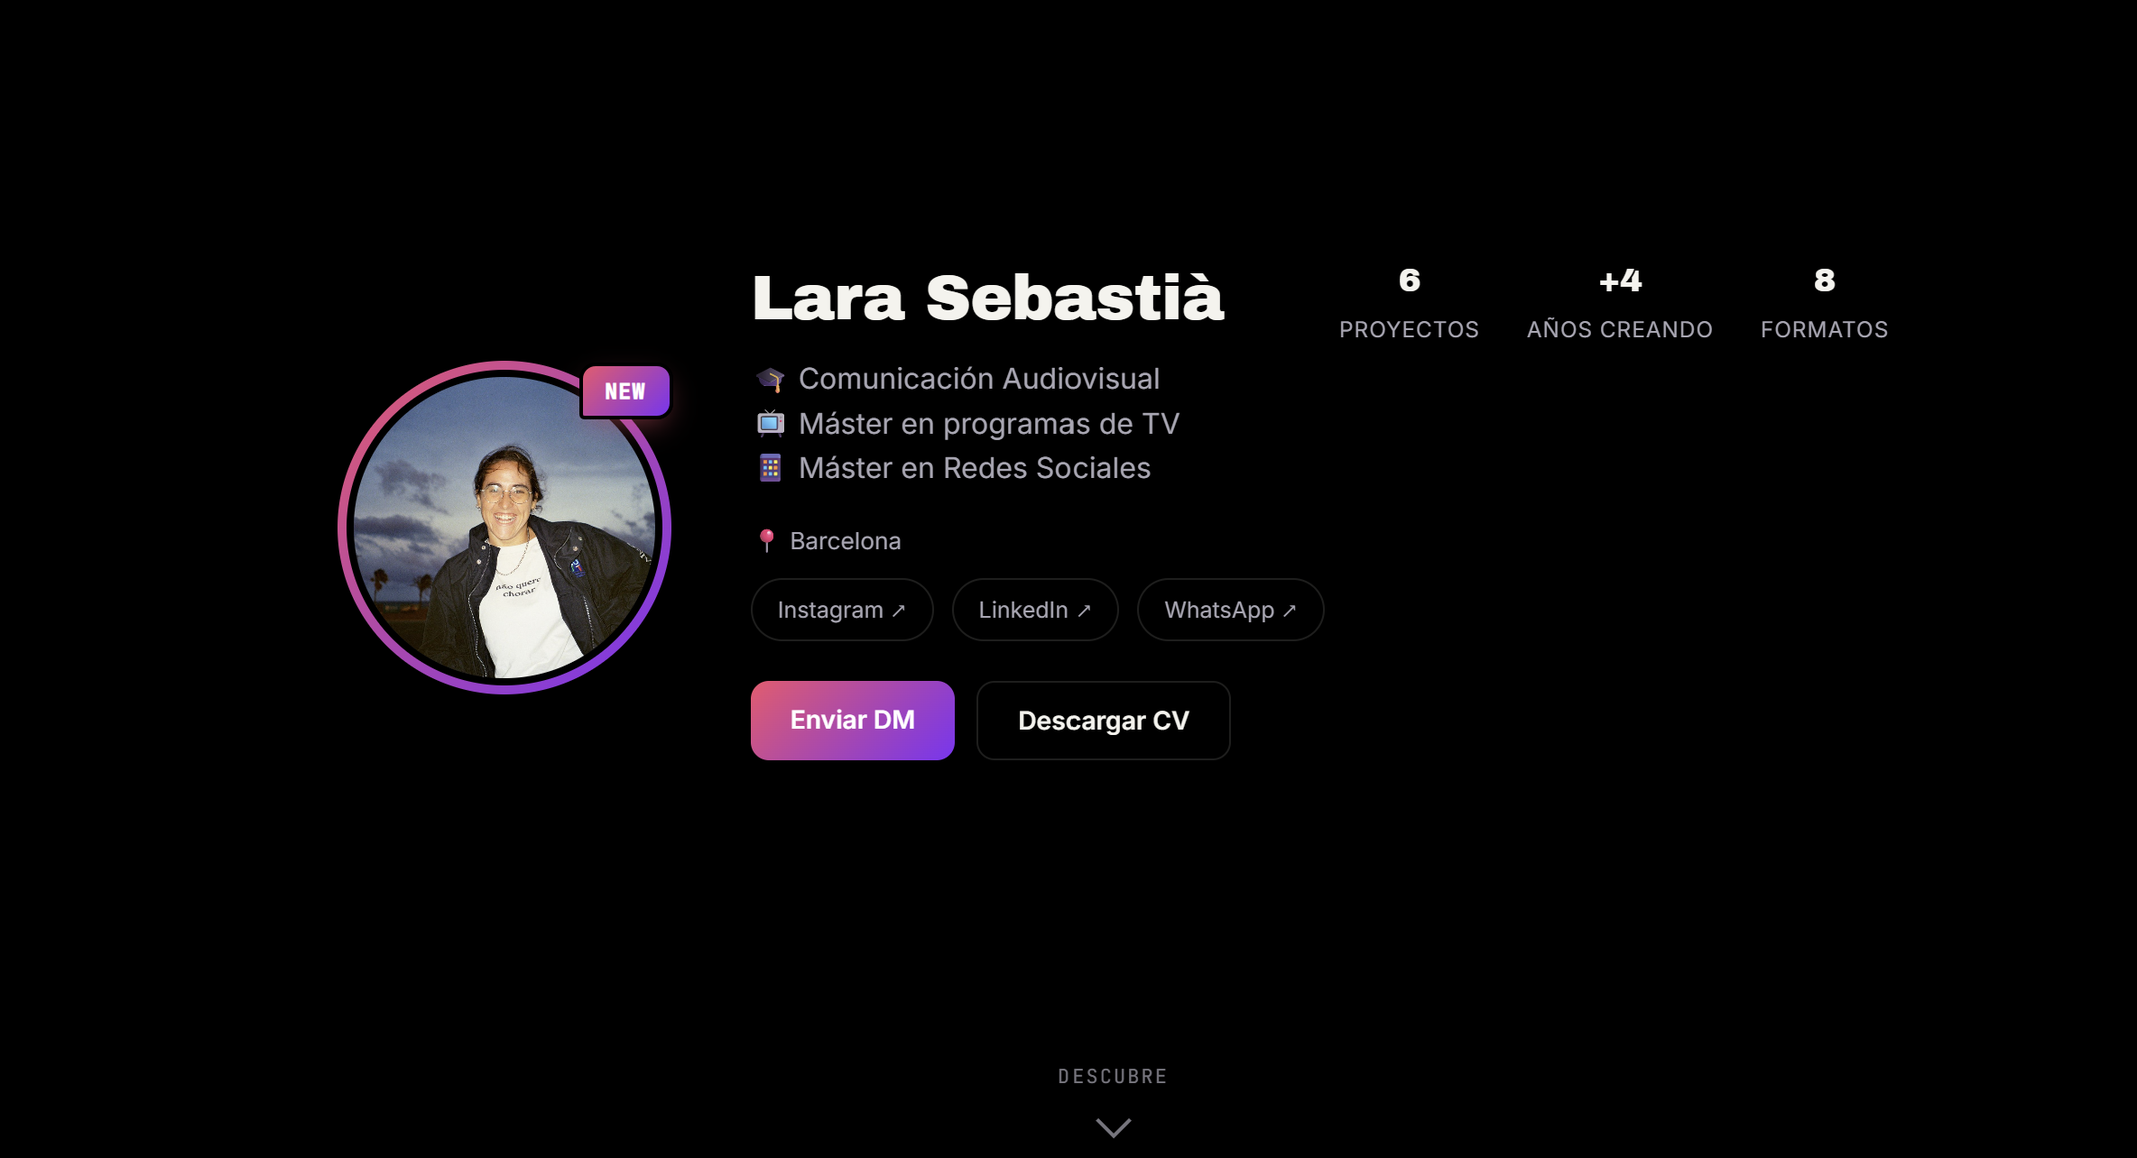
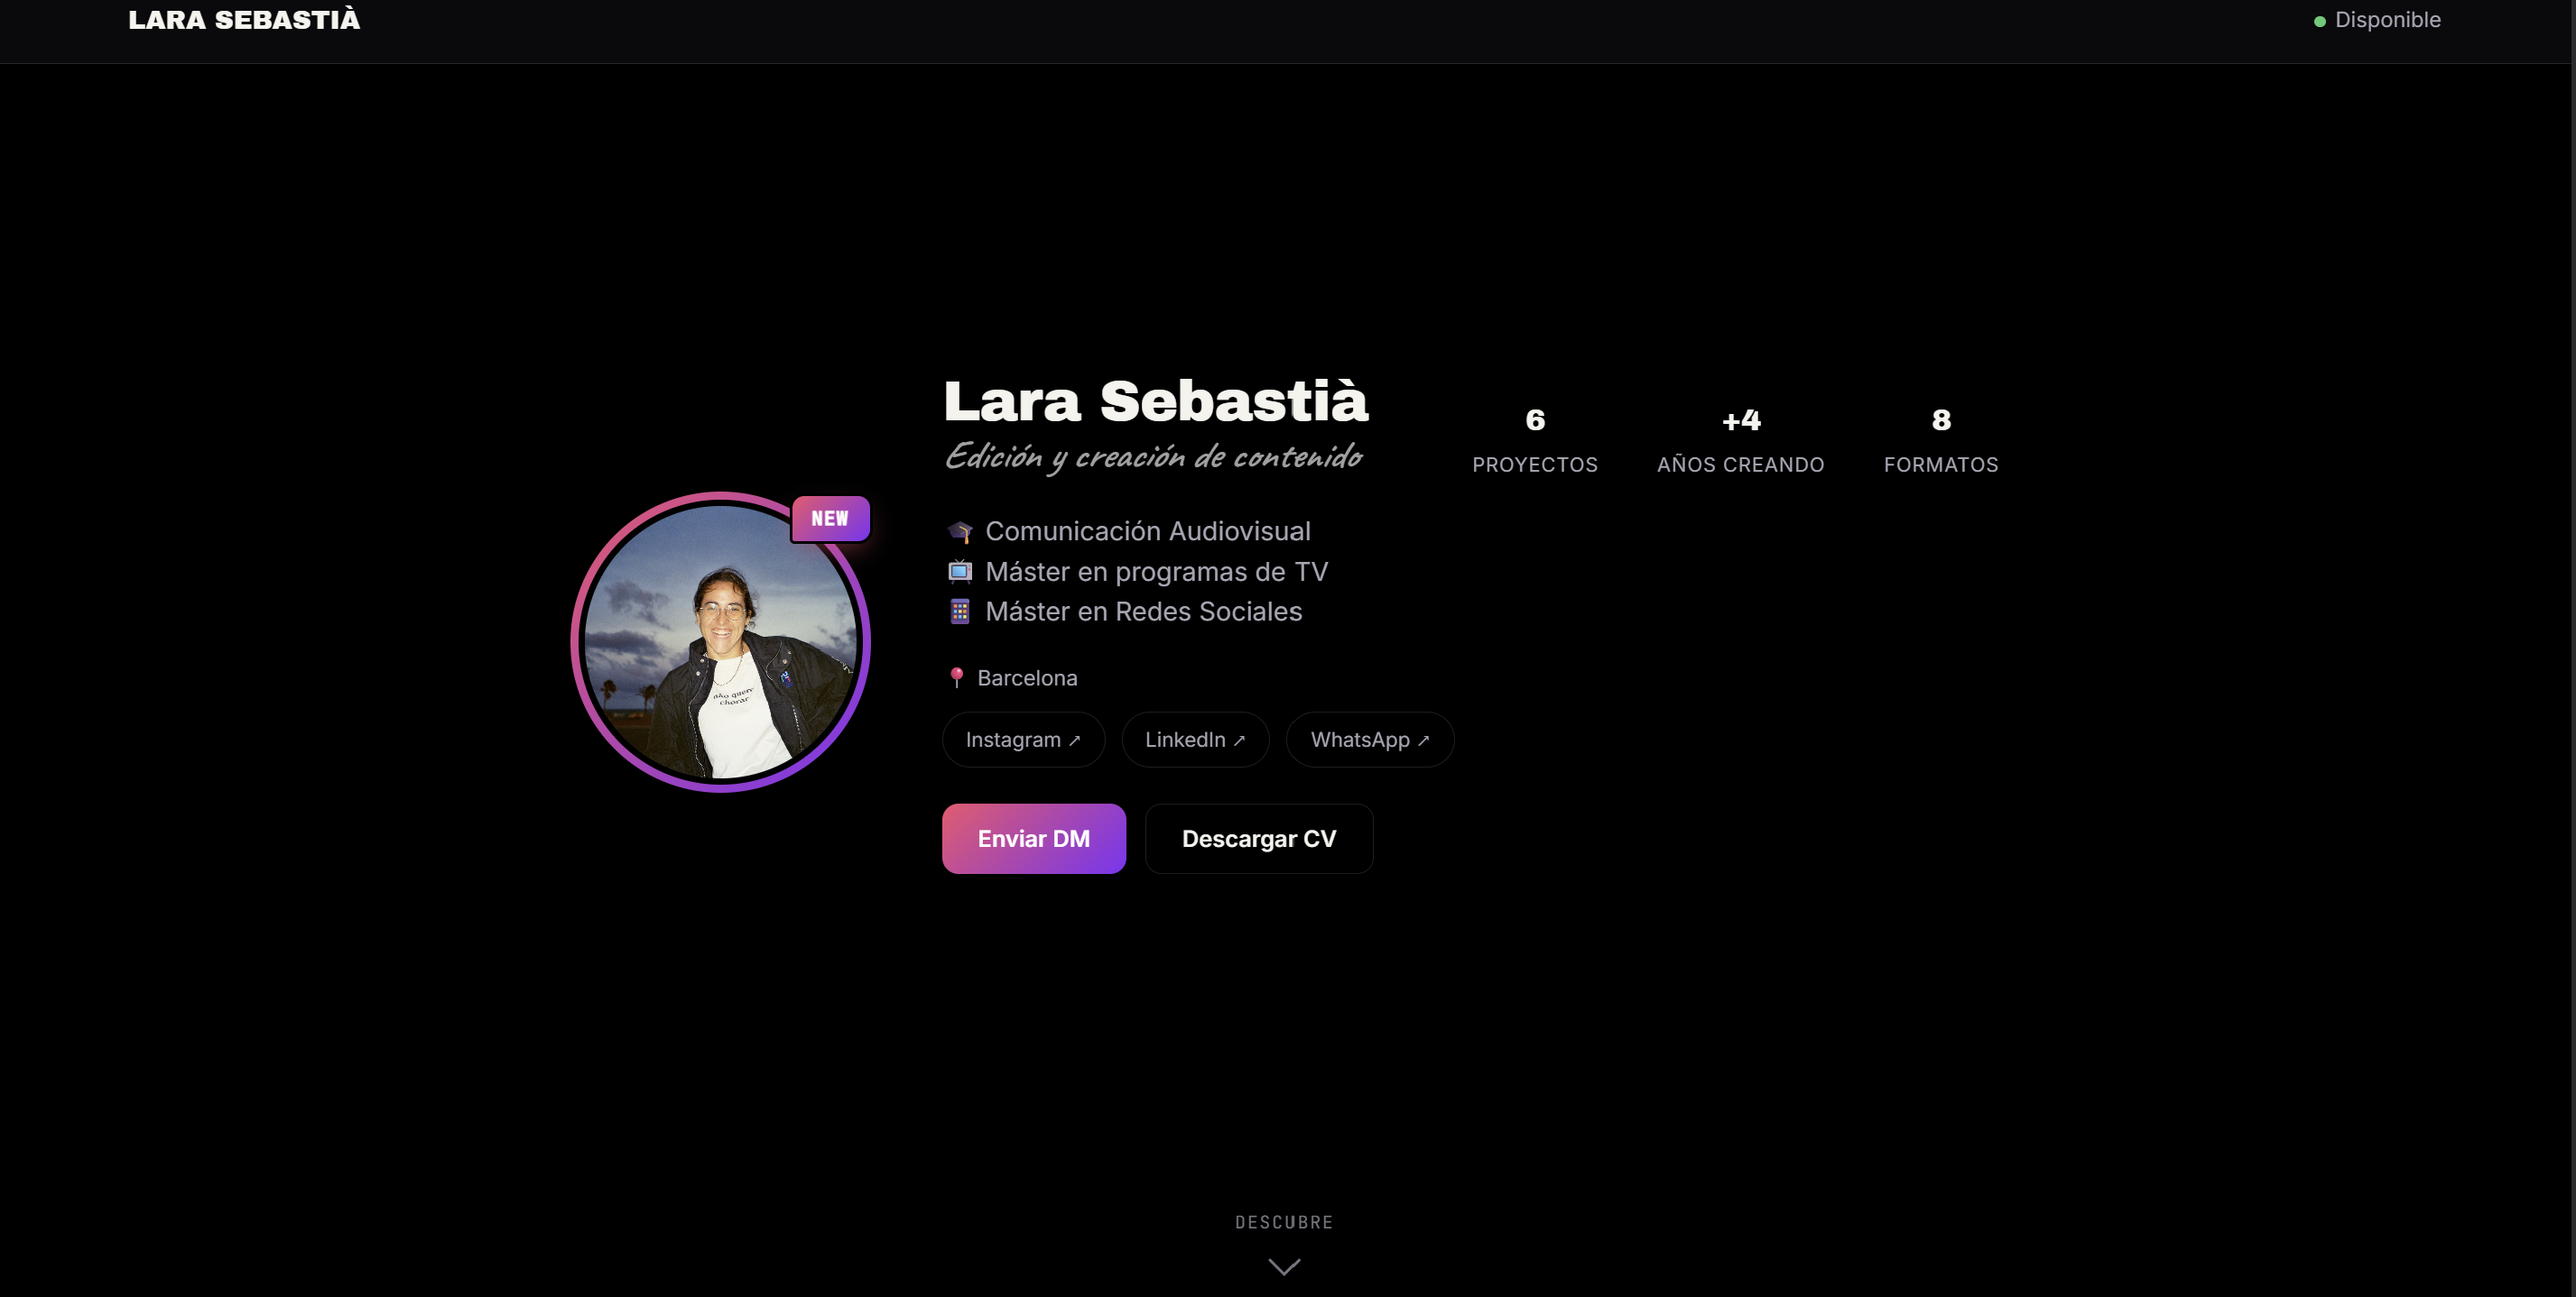
fotos

diff --git a/index.html b/index.html
@@ -2791,9 +2791,9 @@ window.scrollTo(0, 0);
      PROYECTO 3: POPSPORT (ESTILO X / TWITTER)
      ========================================== -->
 <div class="modal-overlay" id="modal-p3">
-  <div class="modal" role="dialog" aria-modal="true" style="padding: 0; border-radius: 16px;">
+    <div class="modal" role="dialog" aria-modal="true" style="padding: 0; border-radius: 16px; overflow: hidden;">
     <div class="modal-cover g3">
-      <img src="Foto/SPORT.png" class="modal-cover-img" alt="POPSPORT">
+      <img src="Foto/SPORT.png" class="modal-cover-img" alt="POPSPORT" style="width: 100%; height: 100%; object-fit: cover; display: block;">
       <button class="modal-close" data-close aria-label="Cerrar">✕</button>
       <div style="position: absolute; text-shadow: 0 1px 10px rgba(0,0,0,0.8); bottom: 15px; left: 20px; right: 20px; z-index: 10; display: flex; flex-direction: column; align-items: flex-start; gap: 4px;">
        </div>
